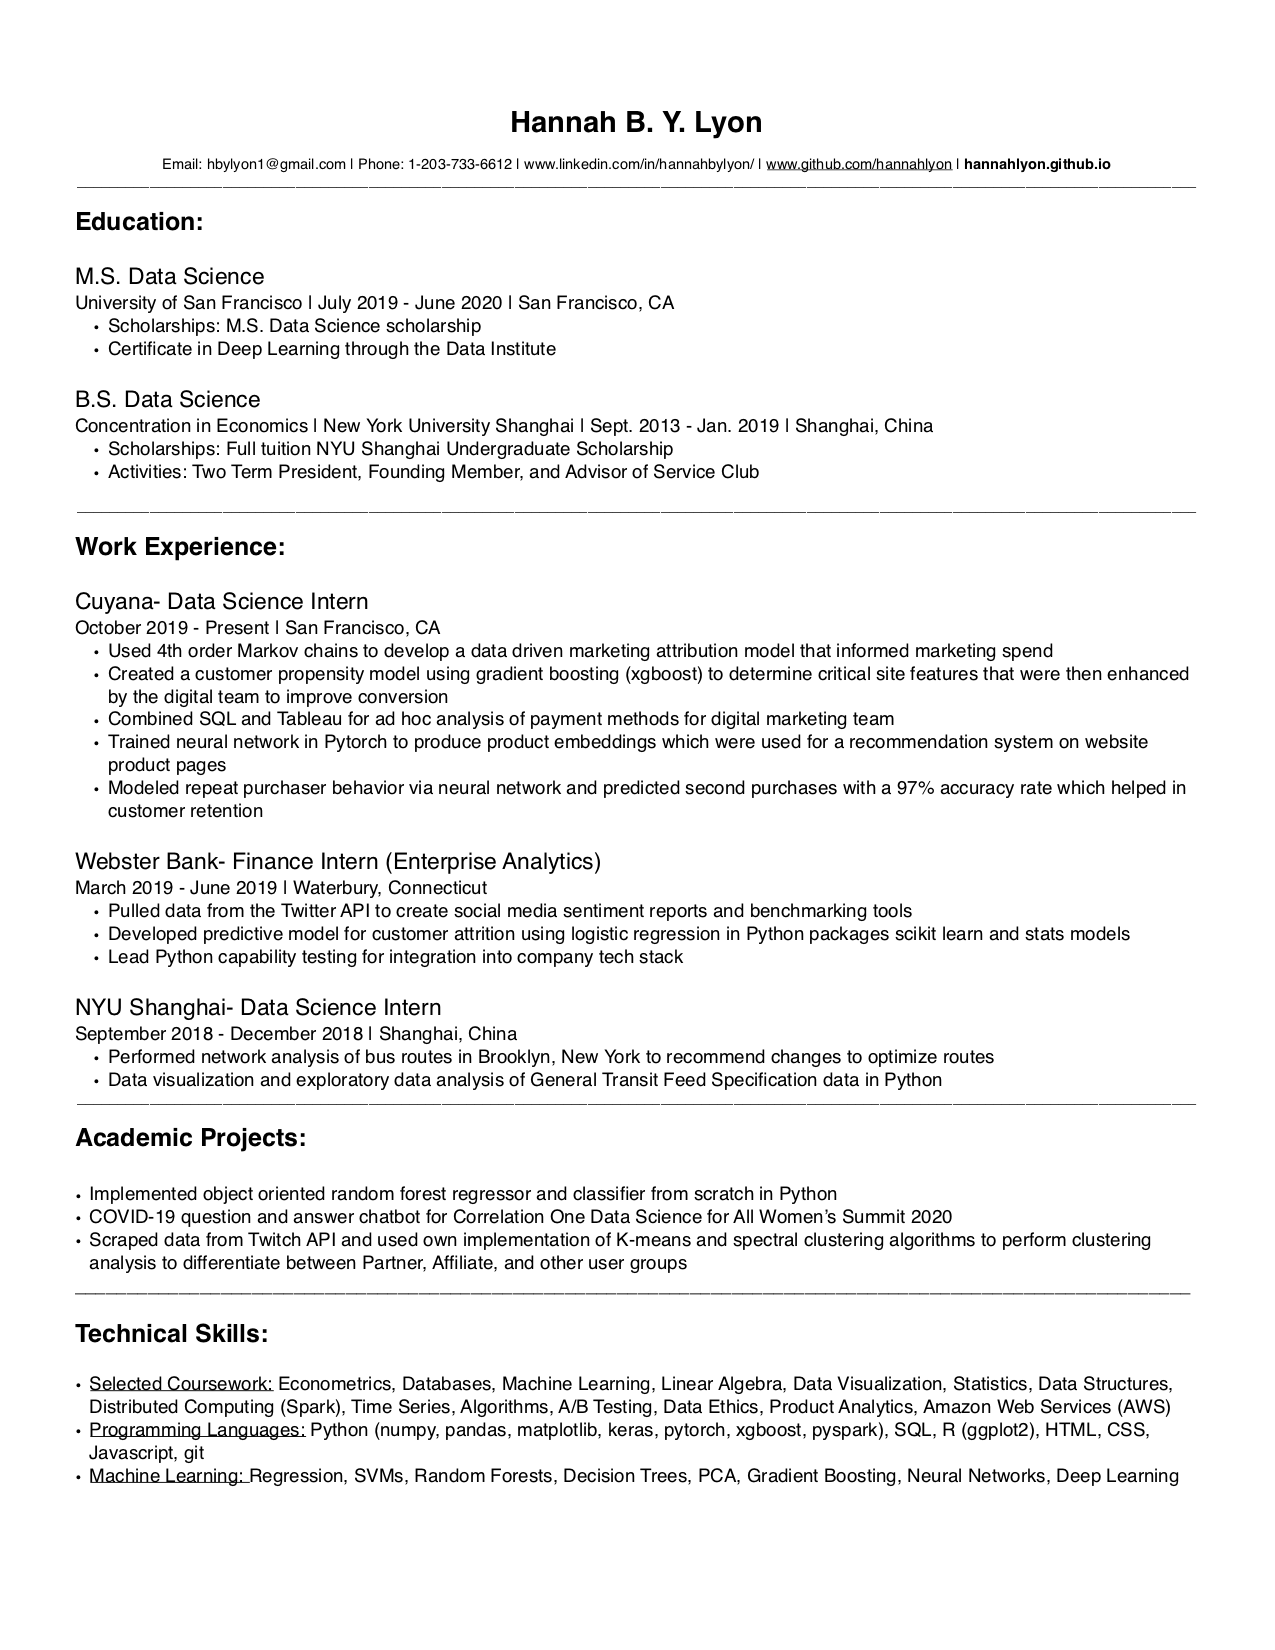
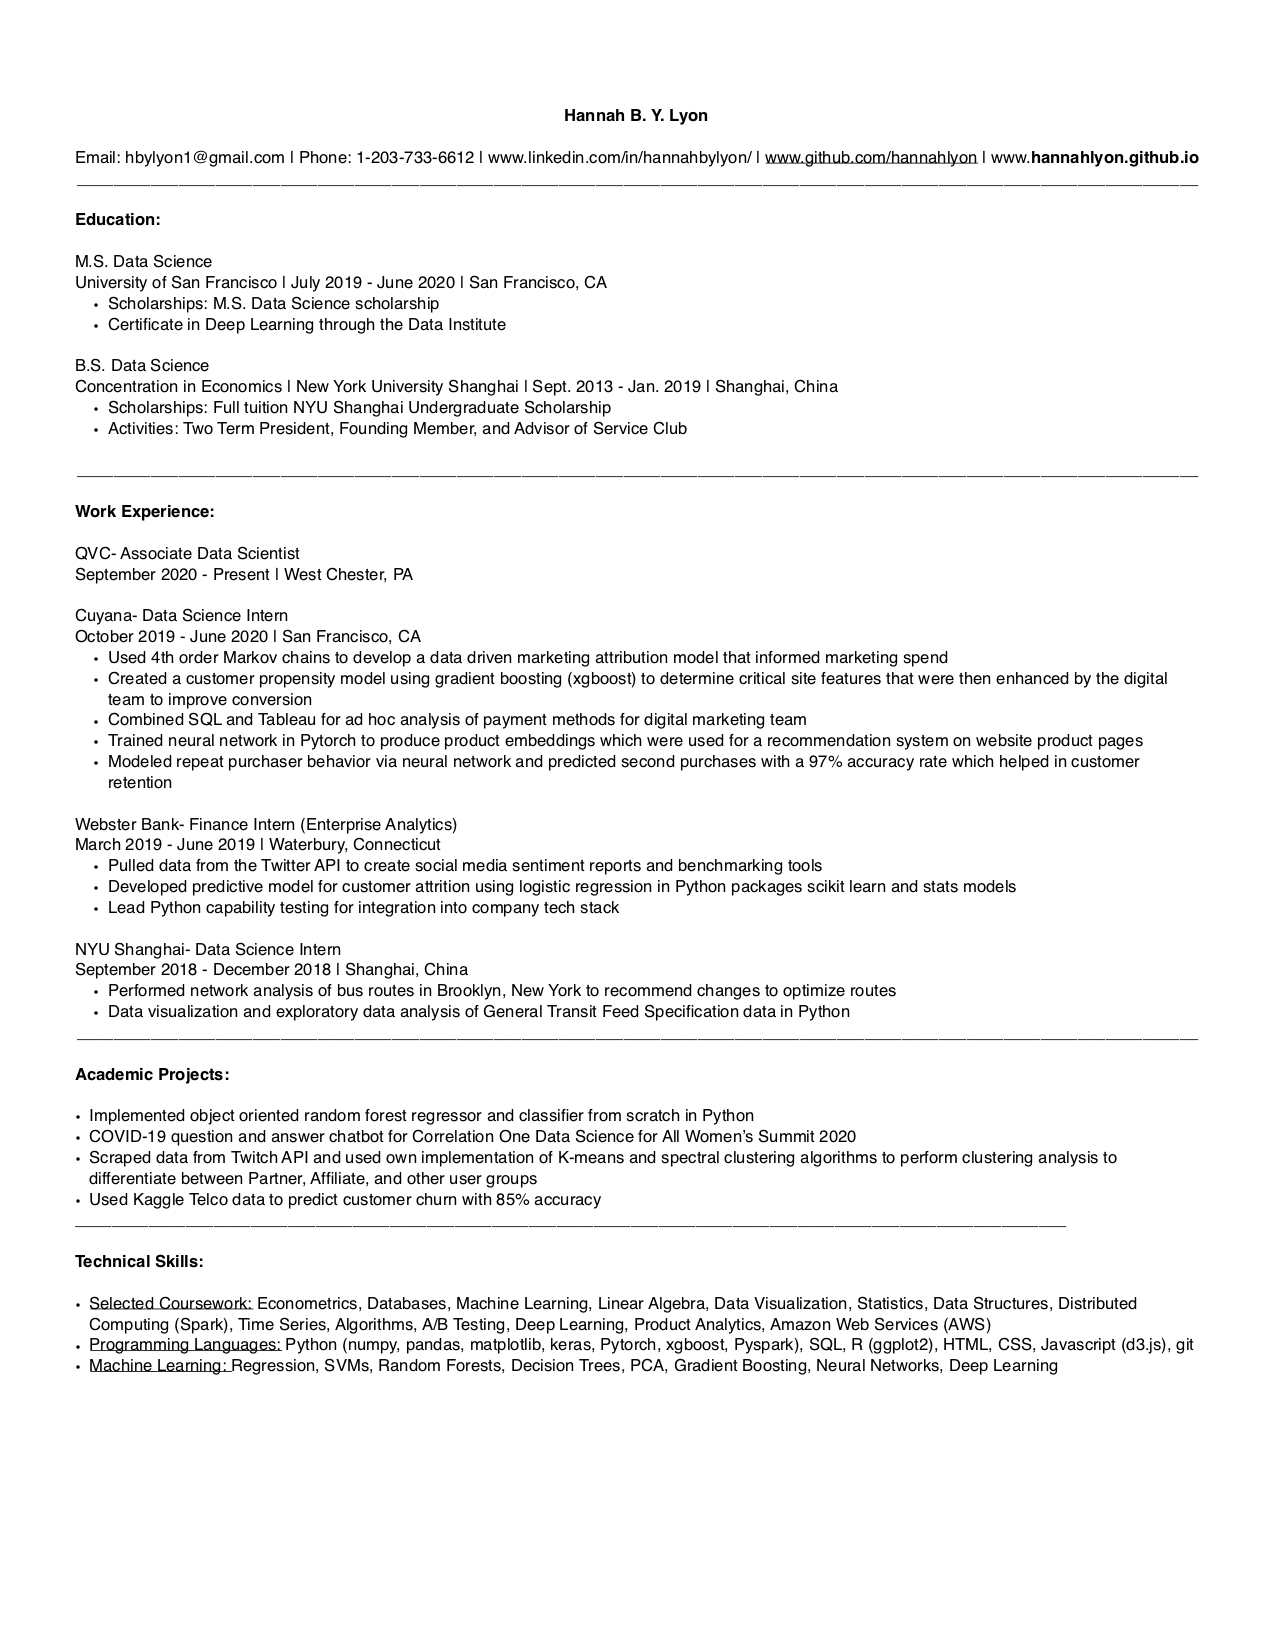
update resume

diff --git a/index.html b/index.html
@@ -71,7 +71,7 @@ http://www.templatemo.com/tm-483-lumino
                         <div class="tm-container text-xs-center tm-section-1-inner">
                             <!-- <img src="img/tm-lumino-logo.png" alt="Logo" class="tm-logo"> -->
                             <h1 class="tm-site-name">Hannah Lyon</h1>
-                            <p class="tm-intro-text">M.S. in Data Science Grad</p>
+                            <p class="tm-intro-text">Associate Data Scientist at QVC</p>
                             <!-- <a href="#tm-section-2" class="tm-intro-link">Begin</a> -->
                         </div>
                    </section>
